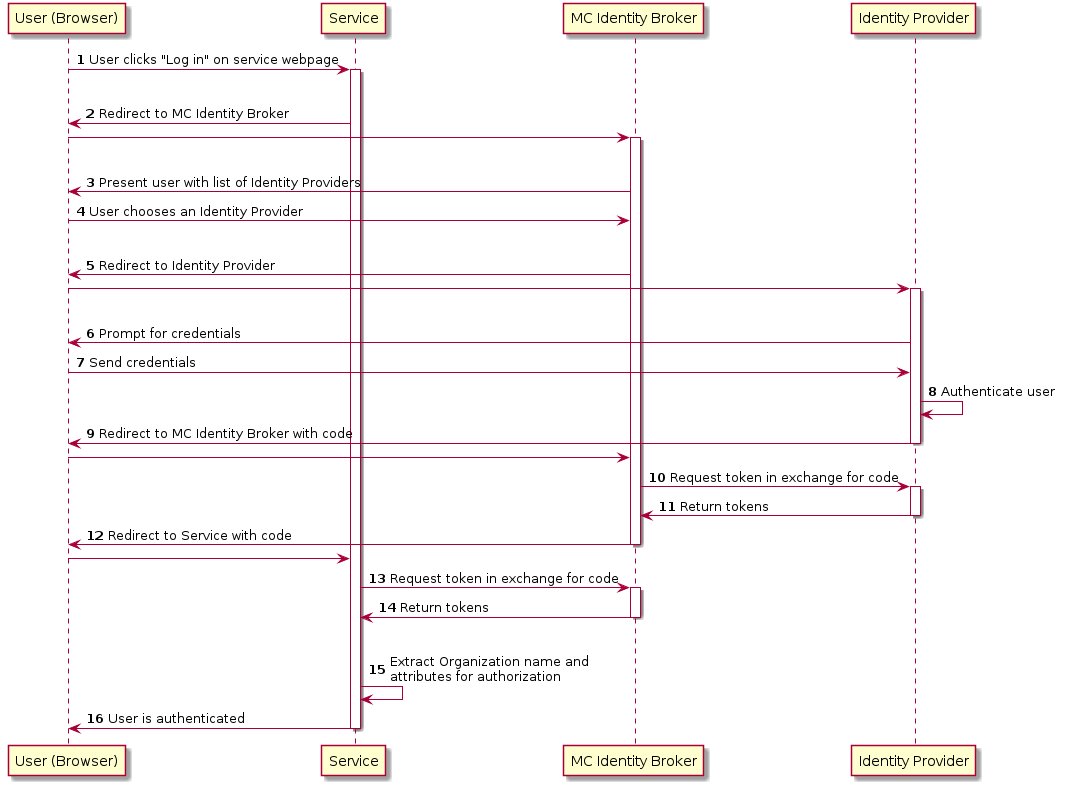
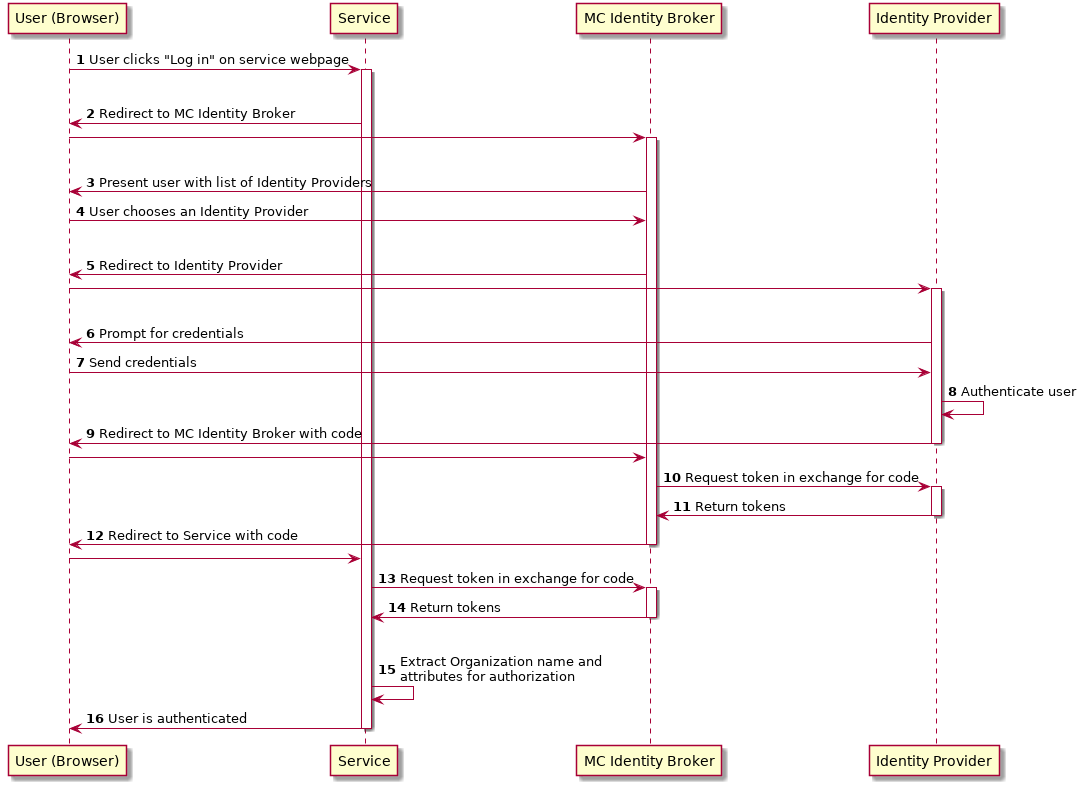
update identity documentation

diff --git a/identity/index.html b/identity/index.html
@@ -649,13 +649,13 @@ As part of the e-Navigation process the Danish Maritime Authority had been worki
 <p>In order to get an organization, its users and any ships the organization might own on to the MCP, the organization needs to perform a signup process. The process is currently manual. To start the process, please fill out the <a href="https://management.maritimecloud.net/#/apply">registration form</a>.</p>
 </div>
 <div class="paragraph">
-<p>Once your organization has been approved you will have access to MCP and its services. You should probably start by looking at the <a href="https://management.maritimecloud.net/">Management Portal</a>. See the <a href="http://manual.maritimecloud.net/">manual</a> for how to use it.</p>
+<p>Once your organization has been approved you will have access to MCP and its services. You should probably start by looking at the <a href="https://management.maritimecloud.net/">Management Portal</a>. See the <a href="http://manual.maritimeconnectivity.net/">manual</a> for how to use it.</p>
 </div>
 </div>
 <div class="sect2">
 <h3 id="feedback"><a class="anchor" href="#feedback"></a><a class="link" href="#feedback">1.4. Feedback</a></h3>
 <div class="paragraph">
-<p>Readers may send feedback about errors, omissions, and ambiguities in this guide to <a href="mailto:osh@dma.dk">osh@dma.dk</a> or even better submit a pull request to the documentation available at <a href="https://github.com/MaritimeCloud/developers.maritimecloud.net" class="bare">https://github.com/MaritimeCloud/developers.maritimecloud.net</a>.</p>
+<p>Readers may send feedback about errors, omissions, and ambiguities in this guide to <a href="mailto:osh@dma.dk">osh@dma.dk</a> or even better submit a pull request to the documentation available at <a href="https://github.com/MaritimeConnectivityPlatform/developers.maritimeconnectivity.net" class="bare">https://github.com/MaritimeConnectivityPlatform/developers.maritimeconnectivity.net</a>.</p>
 </div>
 <div class="paragraph">
 <p>As previously mentioned questions about usage of MCP should be directed to our Google Group at <a href="https://groups.google.com/forum/#!forum/maritimeconnectivity" class="bare">https://groups.google.com/forum/#!forum/maritimeconnectivity</a></p>
@@ -938,7 +938,7 @@ attributes, and credentials.</p>
 </div>
 <div class="imageblock">
 <div class="content">
-<img src="images/diag-8288bd2f888ed35b987eca41c8e8254b.png" alt="Authentication flow" width="1065" height="785">
+<img src="images/diag-8288bd2f888ed35b987eca41c8e8254b.png" alt="Authentication flow" width="1087" height="785">
 </div>
 <div class="title">Authentication flow</div>
 </div>
@@ -947,7 +947,7 @@ attributes, and credentials.</p>
 </div>
 <div class="imageblock">
 <div class="content">
-<img src="images/diag-76383f9cc7a43c548dcc215c3a575628.png" alt="Backend service authentication flow" width="630" height="286">
+<img src="images/diag-76383f9cc7a43c548dcc215c3a575628.png" alt="Backend service authentication flow" width="645" height="286">
 </div>
 <div class="title">Backend service authentication flow</div>
 </div>
@@ -1153,13 +1153,13 @@ attributes, and credentials.</p>
 <p>In order to use the certificates issued by the MCP Identity Registry it is needed to add MCP Root Certificates to the relevant trustchain. Here you can download the root certificates for MCP instances:</p>
 </div>
 <div class="paragraph">
-<p>MCP <strong>Production</strong> environment root certificates as <a href="http://developers.maritimecloud.net/identity/prod-certificate/mc-ca-chain.pem">PEM (one file, primarily for Apache/Nginx)</a>, in <a href="http://developers.maritimecloud.net/identity/prod-certificate/mc-truststore-password-is-changeit.jks">JKS (for Java)</a> or <a href="http://developers.maritimecloud.net/identity/prod-certificate/mc-ca-certs.zip">a zip with the separate files (for windows)</a>.</p>
+<p>MCP <strong>Production</strong> environment root certificates as <a href="http://developers.maritimeconnectivity.net/identity/prod-certificate/mc-ca-chain.pem">PEM (one file, primarily for Apache/Nginx)</a>, in <a href="http://developers.maritimeconnectivity.net/identity/prod-certificate/mc-truststore-password-is-changeit.jks">JKS (for Java)</a> or <a href="http://developers.maritimeconnectivity.net/identity/prod-certificate/mc-ca-certs.zip">a zip with the separate files (for windows)</a>.</p>
 </div>
 <div class="paragraph">
-<p>MCP <strong>Staging</strong> environment root certificates as <a href="http://developers.maritimecloud.net/identity/staging-certificate/mc-ca-chain.pem">PEM (one file, primarily for Apache/Nginx)</a>, in <a href="http://developers.maritimecloud.net/identity/staging-certificate/mc-truststore-password-is-changeit.jks">JKS (for Java)</a> or <a href="http://developers.maritimecloud.net/identity/staging-certificate/mc-ca-certs.zip">a zip with the separate files (for windows)</a>.</p>
+<p>MCP <strong>Staging</strong> environment root certificates as <a href="http://developers.maritimeconnectivity.net/identity/staging-certificate/mc-ca-chain.pem">PEM (one file, primarily for Apache/Nginx)</a>, in <a href="http://developers.maritimeconnectivity.net/identity/staging-certificate/mc-truststore-password-is-changeit.jks">JKS (for Java)</a> or <a href="http://developers.maritimeconnectivity.net/identity/staging-certificate/mc-ca-certs.zip">a zip with the separate files (for windows)</a>.</p>
 </div>
 <div class="paragraph">
-<p>MCP <strong>Test</strong> environment root certificates as <a href="http://developers.maritimecloud.net/identity/test-certificate/mc-ca-chain.pem">PEM (one file, primarily for Apache/Nginx)</a>, in <a href="http://developers.maritimecloud.net/identity/test-certificate/mc-truststore-password-is-changeit.jks">JKS (for Java)</a> or <a href="http://developers.maritimecloud.net/identity/test-certificate/mc-ca-certs.zip">a zip with the separate files (for windows)</a>.</p>
+<p>MCP <strong>Test</strong> environment root certificates as <a href="http://developers.maritimeconnectivity.net/identity/test-certificate/mc-ca-chain.pem">PEM (one file, primarily for Apache/Nginx)</a>, in <a href="http://developers.maritimeconnectivity.net/identity/test-certificate/mc-truststore-password-is-changeit.jks">JKS (for Java)</a> or <a href="http://developers.maritimeconnectivity.net/identity/test-certificate/mc-ca-certs.zip">a zip with the separate files (for windows)</a>.</p>
 </div>
 </div>
 <div class="sect2">
@@ -1356,7 +1356,7 @@ attributes, and credentials.</p>
 </div>
 <div class="imageblock">
 <div class="content">
-<img src="images/diag-7cd353fc09c685a22f21e7f38510ff9e.png" alt="diag 7cd353fc09c685a22f21e7f38510ff9e" width="748" height="298">
+<img src="images/diag-7cd353fc09c685a22f21e7f38510ff9e.png" alt="diag 7cd353fc09c685a22f21e7f38510ff9e" width="761" height="298">
 </div>
 </div>
 </div>
@@ -1373,7 +1373,7 @@ attributes, and credentials.</p>
 </div>
 <div class="imageblock">
 <div class="content">
-<img src="images/diag-9f6c8a8663a2d802fffbd4da7293afd6.png" alt="diag 9f6c8a8663a2d802fffbd4da7293afd6" width="901" height="551">
+<img src="images/diag-9f6c8a8663a2d802fffbd4da7293afd6.png" alt="diag 9f6c8a8663a2d802fffbd4da7293afd6" width="914" height="551">
 </div>
 </div>
 <div class="sect3">
@@ -1795,7 +1795,7 @@ curl: (7) Failed to connect to localhost port 99: Connection refused</pre>
 </div>
 <div id="footer">
 <div id="footer-text">
-Last updated 2017-12-08 10:07:43 CET
+Last updated 2017-12-08 10:16:51 CET
 </div>
 </div>
 <script type="text/x-mathjax-config">
